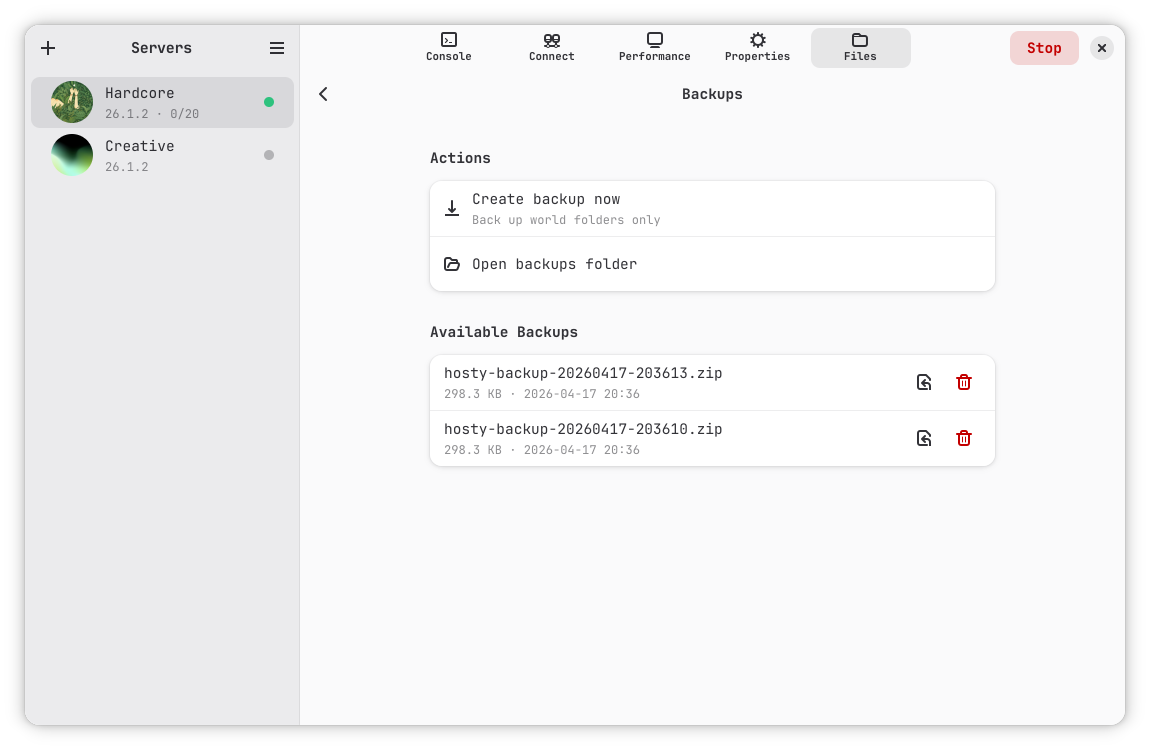
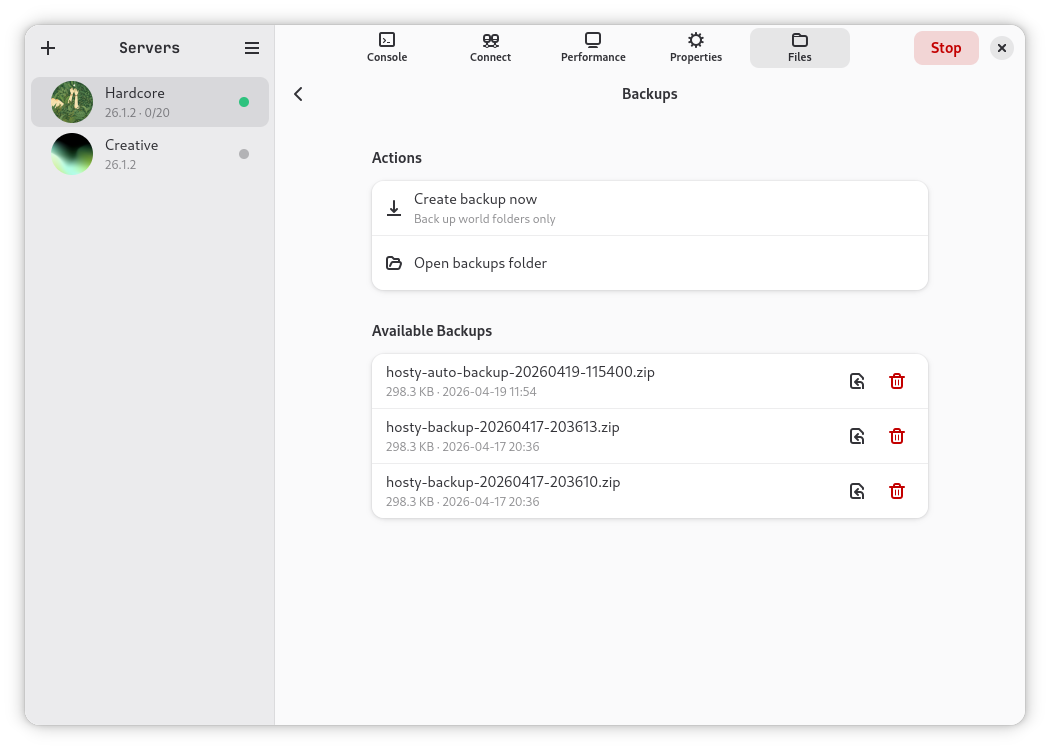
change window, screenshots

diff --git a/hosty/gtk_ui/window.py b/hosty/gtk_ui/window.py
@@ -28,7 +28,7 @@ class HostyWindow(Adw.ApplicationWindow):
         self._playit_autostart_paused_server_id: str | None = None
         
         self.set_title("Hosty")
-        self.set_default_size(1100, 700)
+        self.set_default_size(1000, 700)
         self.set_size_request(400, 400)
         self.add_css_class("hosty-window")
         
